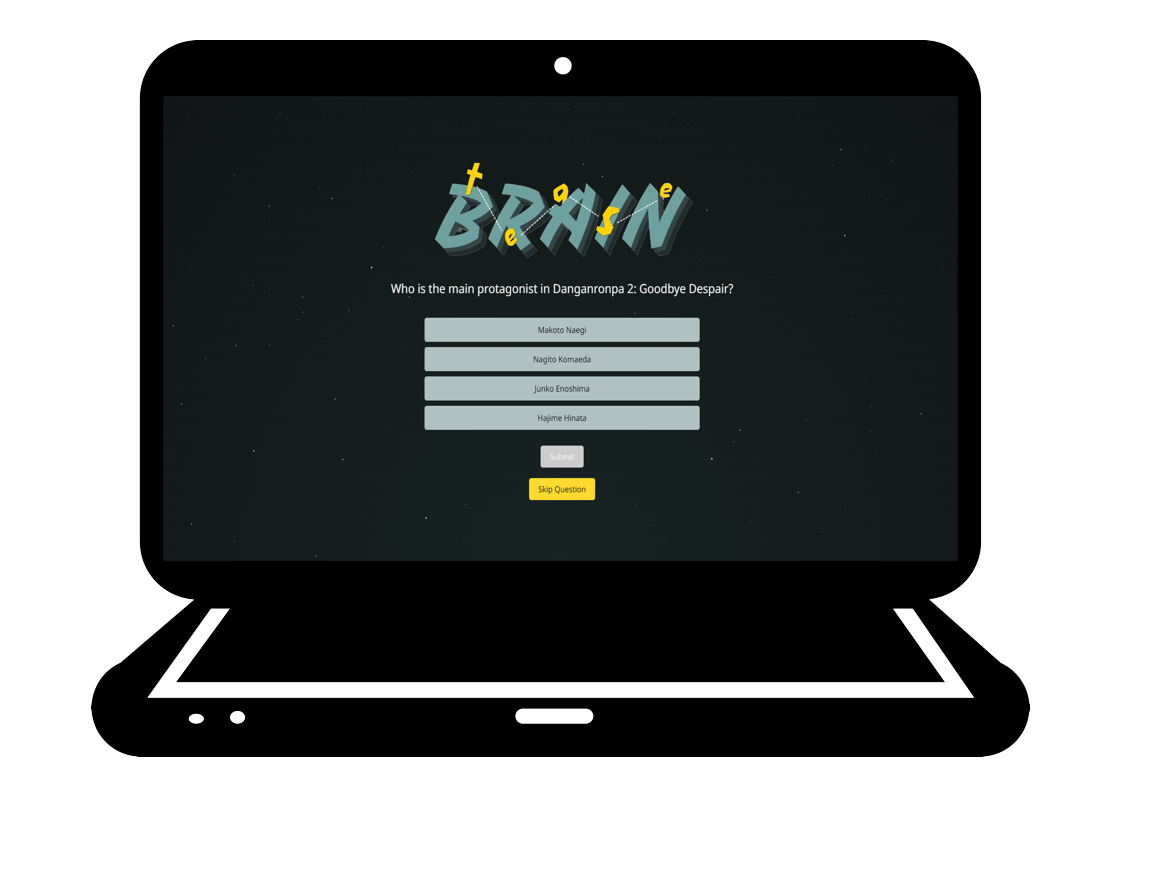
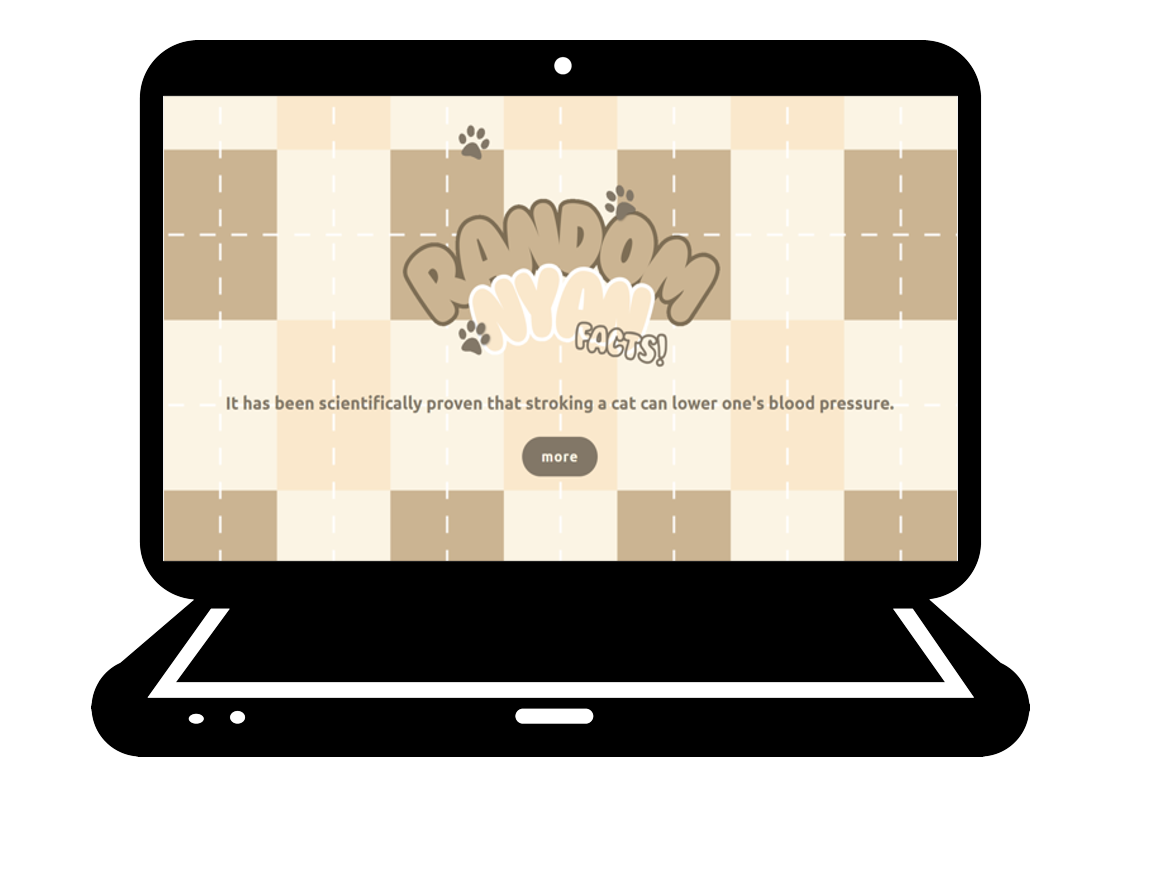
added projects

diff --git a/src/components/projects/Projects.jsx b/src/components/projects/Projects.jsx
@@ -55,15 +55,24 @@ const projects = [
     {
         id: 7,
         image: 'projects/project7.png',
+        title: 'Random Nyan Facts',
+        description: 'A Random Cat Fact Generator!!! Also my very first API project.',
+        languages: ['HTML', 'CSS', 'React'],
+        github: 'https://github.com/bbJerr/catFacts',
+        website: 'https://random-nyan-facts.netlify.app/',
+    },
+    {
+        id: 8,
+        image: 'projects/project8.png',
         title: 'Brain Tease',
-        description: 'An trivia website to test your knowledge on random topics with the use of API.',
+        description: 'A trivia website to test your knowledge on random topics with the use of API.',
         languages: ['HTML', 'CSS', 'React'],
         github: 'https://github.com/bbJerr/brainTease',
         website: 'https://brain-tease.netlify.app/',
     },
     {
-        id: 8,
-        image: 'projects/project8(v2).png',
+        id: 9,
+        image: 'projects/project9.png',
         title: 'ConVo',
         description: 'A real time chat website which allows you to enter any rooms of the same name to chat with other people.',
         languages: ['HTML', 'CSS', 'React', 'Firebase'],
